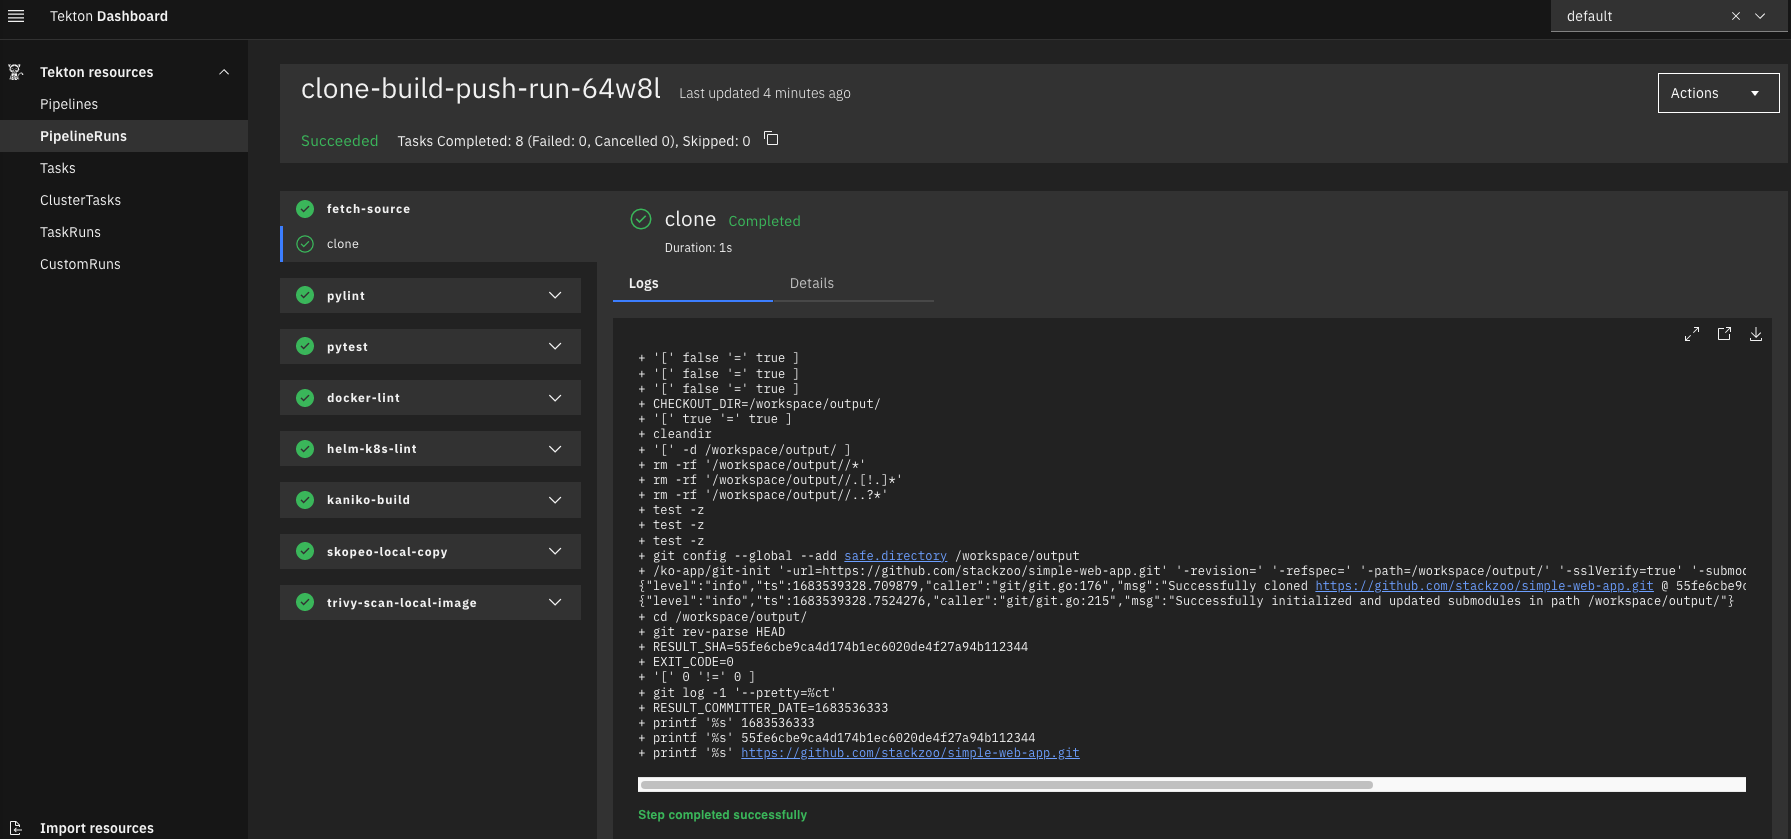
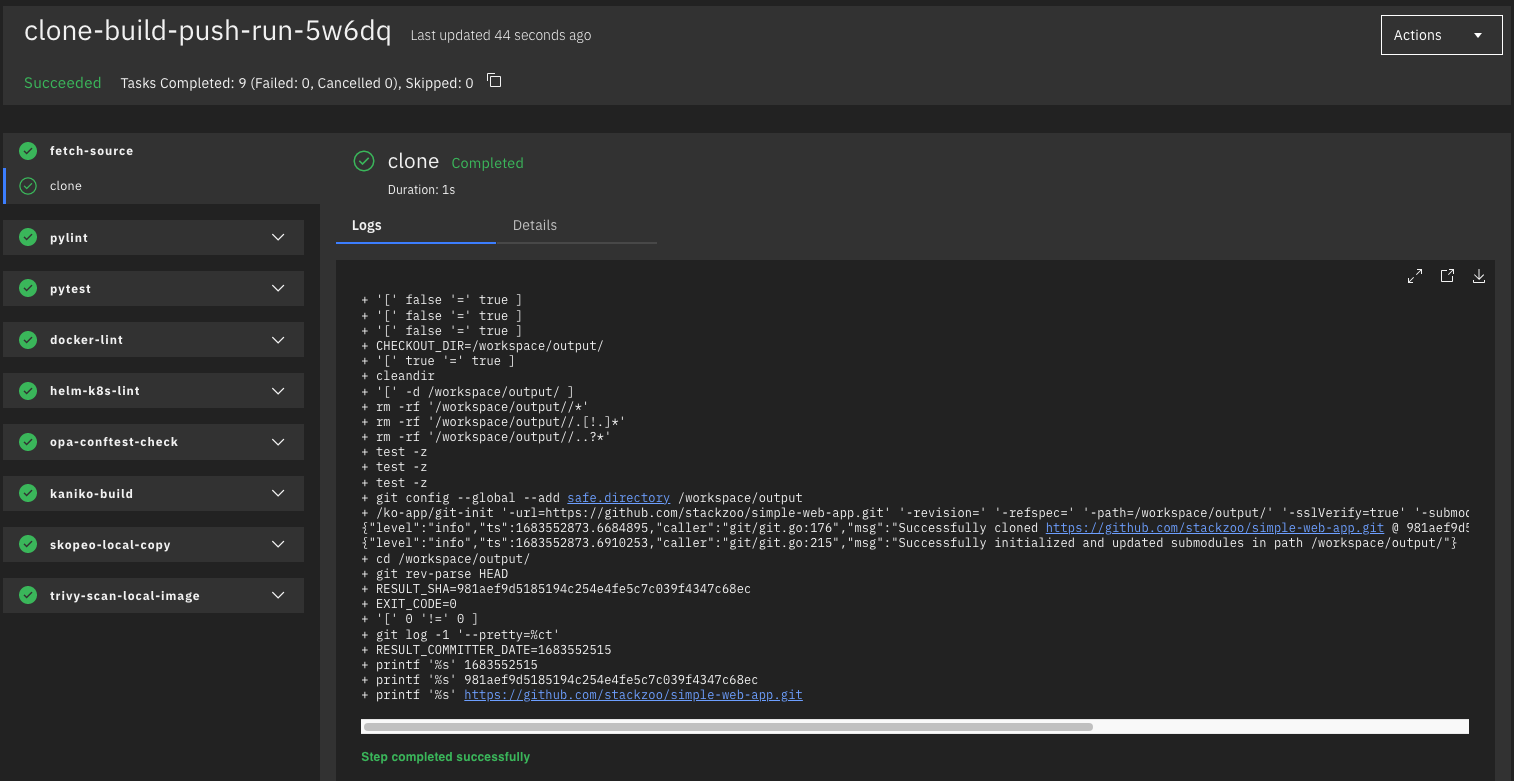
feat: add opa conftest rule step

diff --git a/projects/cicd/tekton/demo-2/README.md b/projects/cicd/tekton/demo-2/README.md
@@ -7,8 +7,9 @@ We implement a tekton pipeline that does the following:
 3. executes a python *unit test*
 4. does *linting* against the *dockerfile*
 5. does *linting* against the *helm/k8s manifests*
-6. *build* the *OCI image* and push it to a *local staging docker registry*
-7. *scan* the image for vulnerabilities
+6. checks the *deployment manifest* against *OPA Conftest* rules
+7. *build* the *OCI image* and push it to a *local staging docker registry*
+8. *scan* the image for vulnerabilities
 
 **Note**: this is intended as a local development environment not suitable for production.
 
@@ -70,7 +71,7 @@ If you want you can inspect the pipeline log from the dashboard, just run:
 ```
 and then open a browser to http://localhost:9097.
 
-After a few seconds, our pipeline has terminated successfully:
+After a few minutes, our pipeline has terminated successfully:
 <p float="left">
   <img src="images/pipeline.png" width="1300" />
 </p>
